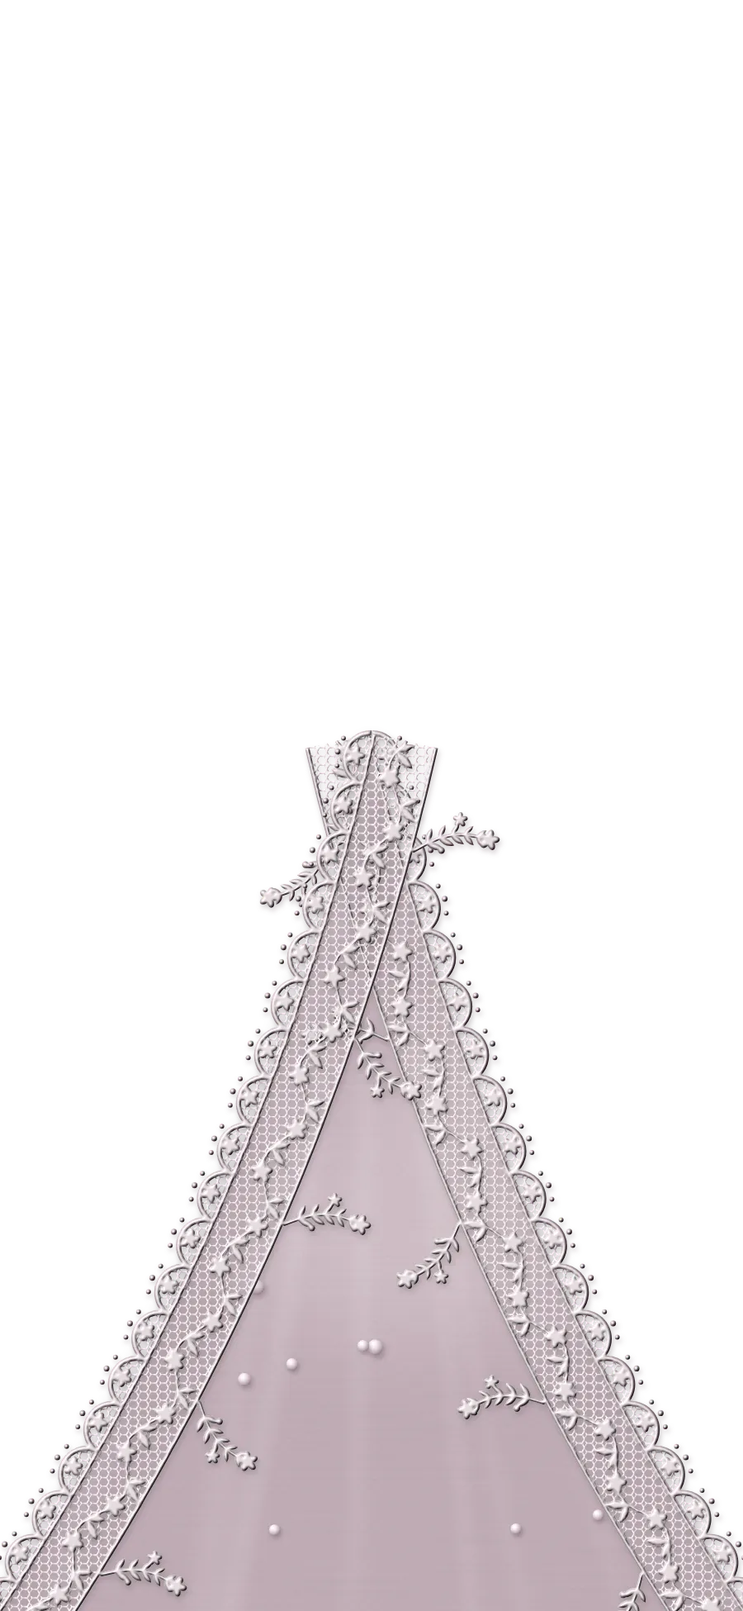
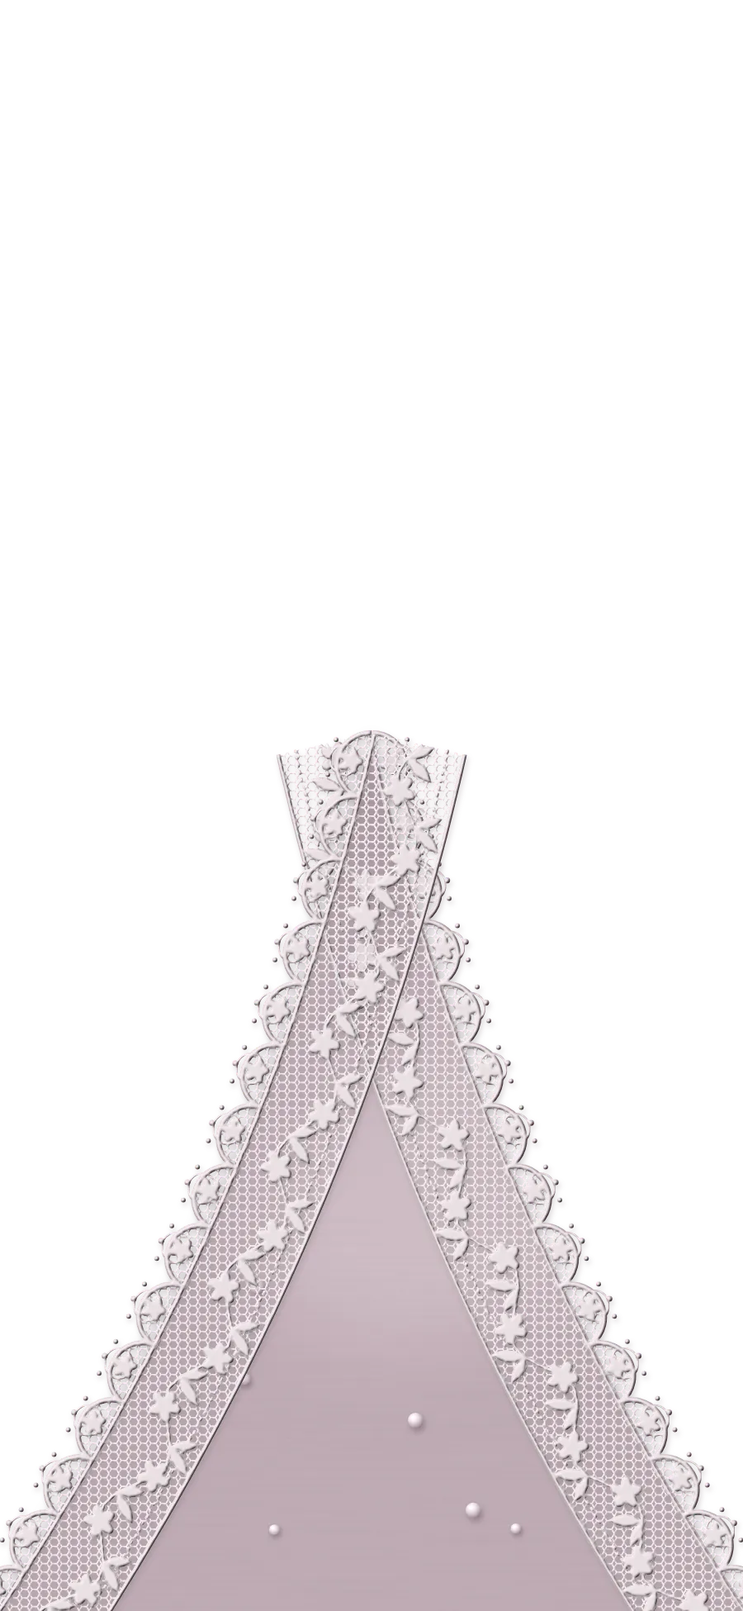
Softer envelope, RSVP to Google Sheet
Claude-Session: https://claude.ai/code/session_012TaZ8zuKBP6pkFoWipGzvm

Changed region(s): [[0.0, 0.4615, 1.0, 1.0], [0.6222, 0.9231, 0.6533, 0.9538], [0.4978, 0.8308, 0.5289, 0.8615]]

diff --git a/ne/janti/index.html b/ne/janti/index.html
@@ -173,7 +173,7 @@ body.rd #mute.on{display:flex}
   </div>
  </section>
 </div>
-<script>var C={"lang": "ne", "ev": [{"k": "j", "label": "विवाह", "date": "2026-11-25", "bs": "मंसिर ९, २०८३", "time": "", "venue": "", "map": "https://maps.app.goo.gl/B4FtiDtbxvyte3Ln6"}, {"k": "r", "label": "रिसेप्सन", "date": "2026-11-28", "bs": "मंसिर १२, २०८३", "time": "साँझ ५:०० बजेदेखि", "venue": "", "map": "https://www.google.com/maps/place/MFG6%2BV5X+Diyalo+Foodland+Kalikanagar,+Butwal,+Lumbini+Province+32907/@27.6771345,83.4606209,16z/data=!4m6!3m5!1s0x399687000e38b619:0xd6fbbf73869bbccb!8m2!3d27.6771345!4d83.4606209!16s%2Fg%2F11vqbf059t"}], "T": {"months": ["जनवरी", "फेब्रुअरी", "मार्च", "अप्रिल", "मे", "जुन", "जुलाई", "अगस्ट", "सेप्टेम्बर", "अक्टोबर", "नोभेम्बर", "डिसेम्बर"], "wd": ["आइतबार", "सोमबार", "मंगलबार", "बुधबार", "बिहीबार", "शुक्रबार", "शनिबार"], "units": ["दिन", "घण्टा", "मिनेट", "सेकेन्ड"], "viewloc": "स्थान हेर्नुहोस्", "sending": "WhatsApp खोल्दै…", "ok": "धन्यवाद! पूरा गर्न WhatsApp मा Send थिच्नुहोस्।", "err": "माफ गर्नुहोस्, पठाउन सकिएन। फेरि प्रयास गर्नुहोस् वा WhatsApp मा सन्देश पठाउनुहोस्।", "wamsg": "नमस्ते उज्ज्वल र ब्लेसी, म {n}।", "need": "कृपया हरेक कार्यक्रमका लागि छान्नुहोस्।", "dear": "आदरणीय", "yesw": "आउँछु", "now": "आउन सक्दिनँ", "gw": "जम्मा व्यक्ति", "rsvpw": "उपस्थिति"}, "wa": "9779813013735"};</script>
+<script>var C={"lang": "ne", "ev": [{"k": "j", "label": "विवाह", "date": "2026-11-25", "bs": "मंसिर ९, २०८३", "time": "", "venue": "", "map": "https://maps.app.goo.gl/B4FtiDtbxvyte3Ln6"}, {"k": "r", "label": "रिसेप्सन", "date": "2026-11-28", "bs": "मंसिर १२, २०८३", "time": "साँझ ५:०० बजेदेखि", "venue": "", "map": "https://www.google.com/maps/place/MFG6%2BV5X+Diyalo+Foodland+Kalikanagar,+Butwal,+Lumbini+Province+32907/@27.6771345,83.4606209,16z/data=!4m6!3m5!1s0x399687000e38b619:0xd6fbbf73869bbccb!8m2!3d27.6771345!4d83.4606209!16s%2Fg%2F11vqbf059t"}], "T": {"months": ["जनवरी", "फेब्रुअरी", "मार्च", "अप्रिल", "मे", "जुन", "जुलाई", "अगस्ट", "सेप्टेम्बर", "अक्टोबर", "नोभेम्बर", "डिसेम्बर"], "wd": ["आइतबार", "सोमबार", "मंगलबार", "बुधबार", "बिहीबार", "शुक्रबार", "शनिबार"], "units": ["दिन", "घण्टा", "मिनेट", "सेकेन्ड"], "viewloc": "स्थान हेर्नुहोस्", "sending": "WhatsApp खोल्दै…", "ok": "धन्यवाद! पूरा गर्न WhatsApp मा Send थिच्नुहोस्।", "err": "माफ गर्नुहोस्, पठाउन सकिएन। फेरि प्रयास गर्नुहोस् वा WhatsApp मा सन्देश पठाउनुहोस्।", "wamsg": "नमस्ते उज्ज्वल र ब्लेसी, म {n}।", "need": "कृपया हरेक कार्यक्रमका लागि छान्नुहोस्।", "dear": "आदरणीय", "yesw": "आउँछु", "now": "आउन सक्दिनँ", "gw": "जम्मा व्यक्ति", "rsvpw": "उपस्थिति", "sending2": "पठाउँदै…", "ok2": "धन्यवाद! तपाईंको जानकारी प्राप्त भयो।", "send2": "पठाउनुहोस्"}, "wa": "9779813013735"};</script>
 <script>
 (function(){
 var $=function(i){return document.getElementById(i)},T=C.T,NE=C.lang==='ne';
@@ -186,7 +186,7 @@ if(g){document.body.classList.add('named');$('tagn').textContent=g;$('dearn').te
 var CFGURL='https://raw.githubusercontent.com/uzalstha09/Wed/config/config.json',KEY={j:'wedding',r:'reception'};
 var BASE=JSON.parse(JSON.stringify(C.ev));
 function urlOv(){C.ev.forEach(function(e){var t=(q.get(e.k+'t')||'').trim().slice(0,40),v=(q.get(e.k+'v')||'').trim().slice(0,60),m=(q.get(e.k+'m')||'').trim();if(t)e.time=t;if(v)e.venue=v;if(/^https?:\/\//i.test(m)&&!/qLXXtzq6119MEdBVA|nJAhKrkYgUaogWYY9|Rose\+Party\+Palace|0x3996842b4da06a89/.test(m))e.map=m.slice(0,600)});}
-function applyCfg(cfg){C.ev=JSON.parse(JSON.stringify(BASE));if(cfg)C.ev.forEach(function(e){var c=cfg[KEY[e.k]];if(!c)return;var L=NE?'ne':'en';if(typeof c.map==='string'&&/^https?:\/\//i.test(c.map))e.map=c.map;if(typeof c['time_'+L]==='string')e.time=c['time_'+L];if(typeof c['venue_'+L]==='string')e.venue=c['venue_'+L]});urlOv()}
+var RS='';function applyCfg(cfg){C.ev=JSON.parse(JSON.stringify(BASE));if(cfg&&typeof cfg.rsvp_url==='string'&&/^https:\/\/script\.google(usercontent)?\.com\//.test(cfg.rsvp_url))RS=cfg.rsvp_url;if(cfg)C.ev.forEach(function(e){var c=cfg[KEY[e.k]];if(!c)return;var L=NE?'ne':'en';if(typeof c.map==='string'&&/^https?:\/\//i.test(c.map))e.map=c.map;if(typeof c['time_'+L]==='string')e.time=c['time_'+L];if(typeof c['venue_'+L]==='string')e.venue=c['venue_'+L]});urlOv()}
 function D(e){return new Date(e.date+'T00:00:00')}
 function fd(d){return dv(d.getDate())+' '+T.months[d.getMonth()]+' '+dv(d.getFullYear())}
 function render(){
@@ -195,8 +195,8 @@ $('evs').innerHTML=C.ev.map(function(e,i){var d=D(e),tv=[e.time,e.venue].filter(
 $('locs').innerHTML=C.ev.map(function(e,i){var d=D(e);return '<div class="lc rv" style="--d:'+(.3+i*.2)+'s"><div class="cap">'+esc(e.label)+'</div>'+(e.venue?'<div class="vn">'+esc(e.venue)+'</div>':'')+'<div class="dt">'+T.wd[d.getDay()]+', '+fd(d)+(e.time?' · '+esc(e.time):'')+'</div>'+(e.map?'<a class="btn" href="'+esc(cm(e.map))+'" rel="noopener"><svg width="12" height="15" viewBox="0 0 12 15" fill="none" stroke="currentColor" stroke-width="1.2"><path d="M6 14s5-4.6 5-8.2A5 5 0 0 0 1 5.8C1 9.4 6 14 6 14z"/><circle cx="6" cy="6" r="1.8"/></svg>'+esc(T.viewloc)+'</a>':'')+'</div>'}).join('');
 }
 applyCfg(null);render();
-try{var cc=localStorage.getItem('wcfg');if(cc){applyCfg(JSON.parse(cc));render()}}catch(e){}
-try{fetch(CFGURL+'?t='+Math.floor(Date.now()/60000),{cache:'no-store'}).then(function(r){return r.ok?r.json():null}).then(function(cfg){if(!cfg)return;try{localStorage.setItem('wcfg',JSON.stringify(cfg))}catch(e){}applyCfg(cfg);render();var s=document.querySelectorAll('.sec.in');}).catch(function(){})}catch(e){}
+try{var cc=localStorage.getItem('wcfg');if(cc){applyCfg(JSON.parse(cc));render();if(RS){var sb0=document.querySelector('#rf .send');if(sb0)sb0.textContent=T.send2}}}catch(e){}
+try{fetch(CFGURL+'?t='+Math.floor(Date.now()/60000),{cache:'no-store'}).then(function(r){return r.ok?r.json():null}).then(function(cfg){if(!cfg)return;try{localStorage.setItem('wcfg',JSON.stringify(cfg))}catch(e){}applyCfg(cfg);render();if(RS){var sb=document.querySelector('#rf .send');if(sb)sb.textContent=T.send2}}).catch(function(){})}catch(e){}
 var tgt=D(C.ev[0]);$('cdl').textContent=C.ev[0].label;$('cdt').textContent=T.wd[tgt.getDay()]+', '+fd(tgt);
 $('cd').innerHTML=T.units.map(function(u){return '<div><b>00</b><span>'+esc(u)+'</span></div>'}).join('');
 var cb=$('cd').querySelectorAll('b');
@@ -208,6 +208,9 @@ $('rf').addEventListener('submit',function(ev){ev.preventDefault();var f=this,b=
  for(var i=0;i<C.ev.length;i++){if(!f.querySelector('input[name="attend-'+C.ev[i].k+'"]:checked')){m.textContent=T.need;return}}
  var n=($('rn').value||'').trim();if(!n){$('rn').focus();return}
  var lines=[T.rsvpw+' — '+n];C.ev.forEach(function(e){var v=f.querySelector('input[name="attend-'+e.k+'"]:checked').value;lines.push(e.label+': '+(v==='yes'?T.yesw:T.now))});lines.push(T.gw+': '+dv($('rg').value));
+ if(RS){var body=new URLSearchParams();body.append('name',n);C.ev.forEach(function(e){body.append('attend-'+e.k,f.querySelector('input[name="attend-'+e.k+'"]:checked').value)});body.append('guests',$('rg').value);body.append('page',location.pathname);body.append('lang',C.lang);if(g)body.append('link-name',g);
+  b.disabled=true;var old=b.textContent;b.textContent=T.sending2;m.textContent='';
+  fetch(RS,{method:'POST',mode:'no-cors',headers:{'Content-Type':'application/x-www-form-urlencoded'},body:body.toString()}).then(function(){m.textContent=T.ok2;f.querySelectorAll('input,select,button').forEach(function(x){x.disabled=true});b.textContent='✓'}).catch(function(){m.textContent=T.err;b.disabled=false;b.textContent=old});return}
  m.textContent=T.ok;location.href='https://wa.me/'+C.wa+'?text='+encodeURIComponent(lines.join('\n'))});
 /* reveal */
 var secs=document.querySelectorAll('.sec');

diff --git a/ne/reception/index.html b/ne/reception/index.html
@@ -173,7 +173,7 @@ body.rd #mute.on{display:flex}
   </div>
  </section>
 </div>
-<script>var C={"lang": "ne", "ev": [{"k": "r", "label": "रिसेप्सन", "date": "2026-11-28", "bs": "मंसिर १२, २०८३", "time": "साँझ ५:०० बजेदेखि", "venue": "", "map": "https://www.google.com/maps/place/MFG6%2BV5X+Diyalo+Foodland+Kalikanagar,+Butwal,+Lumbini+Province+32907/@27.6771345,83.4606209,16z/data=!4m6!3m5!1s0x399687000e38b619:0xd6fbbf73869bbccb!8m2!3d27.6771345!4d83.4606209!16s%2Fg%2F11vqbf059t"}], "T": {"months": ["जनवरी", "फेब्रुअरी", "मार्च", "अप्रिल", "मे", "जुन", "जुलाई", "अगस्ट", "सेप्टेम्बर", "अक्टोबर", "नोभेम्बर", "डिसेम्बर"], "wd": ["आइतबार", "सोमबार", "मंगलबार", "बुधबार", "बिहीबार", "शुक्रबार", "शनिबार"], "units": ["दिन", "घण्टा", "मिनेट", "सेकेन्ड"], "viewloc": "स्थान हेर्नुहोस्", "sending": "WhatsApp खोल्दै…", "ok": "धन्यवाद! पूरा गर्न WhatsApp मा Send थिच्नुहोस्।", "err": "माफ गर्नुहोस्, पठाउन सकिएन। फेरि प्रयास गर्नुहोस् वा WhatsApp मा सन्देश पठाउनुहोस्।", "wamsg": "नमस्ते उज्ज्वल र ब्लेसी, म {n}।", "need": "कृपया हरेक कार्यक्रमका लागि छान्नुहोस्।", "dear": "आदरणीय", "yesw": "आउँछु", "now": "आउन सक्दिनँ", "gw": "जम्मा व्यक्ति", "rsvpw": "उपस्थिति"}, "wa": "9779813013735"};</script>
+<script>var C={"lang": "ne", "ev": [{"k": "r", "label": "रिसेप्सन", "date": "2026-11-28", "bs": "मंसिर १२, २०८३", "time": "साँझ ५:०० बजेदेखि", "venue": "", "map": "https://www.google.com/maps/place/MFG6%2BV5X+Diyalo+Foodland+Kalikanagar,+Butwal,+Lumbini+Province+32907/@27.6771345,83.4606209,16z/data=!4m6!3m5!1s0x399687000e38b619:0xd6fbbf73869bbccb!8m2!3d27.6771345!4d83.4606209!16s%2Fg%2F11vqbf059t"}], "T": {"months": ["जनवरी", "फेब्रुअरी", "मार्च", "अप्रिल", "मे", "जुन", "जुलाई", "अगस्ट", "सेप्टेम्बर", "अक्टोबर", "नोभेम्बर", "डिसेम्बर"], "wd": ["आइतबार", "सोमबार", "मंगलबार", "बुधबार", "बिहीबार", "शुक्रबार", "शनिबार"], "units": ["दिन", "घण्टा", "मिनेट", "सेकेन्ड"], "viewloc": "स्थान हेर्नुहोस्", "sending": "WhatsApp खोल्दै…", "ok": "धन्यवाद! पूरा गर्न WhatsApp मा Send थिच्नुहोस्।", "err": "माफ गर्नुहोस्, पठाउन सकिएन। फेरि प्रयास गर्नुहोस् वा WhatsApp मा सन्देश पठाउनुहोस्।", "wamsg": "नमस्ते उज्ज्वल र ब्लेसी, म {n}।", "need": "कृपया हरेक कार्यक्रमका लागि छान्नुहोस्।", "dear": "आदरणीय", "yesw": "आउँछु", "now": "आउन सक्दिनँ", "gw": "जम्मा व्यक्ति", "rsvpw": "उपस्थिति", "sending2": "पठाउँदै…", "ok2": "धन्यवाद! तपाईंको जानकारी प्राप्त भयो।", "send2": "पठाउनुहोस्"}, "wa": "9779813013735"};</script>
 <script>
 (function(){
 var $=function(i){return document.getElementById(i)},T=C.T,NE=C.lang==='ne';
@@ -186,7 +186,7 @@ if(g){document.body.classList.add('named');$('tagn').textContent=g;$('dearn').te
 var CFGURL='https://raw.githubusercontent.com/uzalstha09/Wed/config/config.json',KEY={j:'wedding',r:'reception'};
 var BASE=JSON.parse(JSON.stringify(C.ev));
 function urlOv(){C.ev.forEach(function(e){var t=(q.get(e.k+'t')||'').trim().slice(0,40),v=(q.get(e.k+'v')||'').trim().slice(0,60),m=(q.get(e.k+'m')||'').trim();if(t)e.time=t;if(v)e.venue=v;if(/^https?:\/\//i.test(m)&&!/qLXXtzq6119MEdBVA|nJAhKrkYgUaogWYY9|Rose\+Party\+Palace|0x3996842b4da06a89/.test(m))e.map=m.slice(0,600)});}
-function applyCfg(cfg){C.ev=JSON.parse(JSON.stringify(BASE));if(cfg)C.ev.forEach(function(e){var c=cfg[KEY[e.k]];if(!c)return;var L=NE?'ne':'en';if(typeof c.map==='string'&&/^https?:\/\//i.test(c.map))e.map=c.map;if(typeof c['time_'+L]==='string')e.time=c['time_'+L];if(typeof c['venue_'+L]==='string')e.venue=c['venue_'+L]});urlOv()}
+var RS='';function applyCfg(cfg){C.ev=JSON.parse(JSON.stringify(BASE));if(cfg&&typeof cfg.rsvp_url==='string'&&/^https:\/\/script\.google(usercontent)?\.com\//.test(cfg.rsvp_url))RS=cfg.rsvp_url;if(cfg)C.ev.forEach(function(e){var c=cfg[KEY[e.k]];if(!c)return;var L=NE?'ne':'en';if(typeof c.map==='string'&&/^https?:\/\//i.test(c.map))e.map=c.map;if(typeof c['time_'+L]==='string')e.time=c['time_'+L];if(typeof c['venue_'+L]==='string')e.venue=c['venue_'+L]});urlOv()}
 function D(e){return new Date(e.date+'T00:00:00')}
 function fd(d){return dv(d.getDate())+' '+T.months[d.getMonth()]+' '+dv(d.getFullYear())}
 function render(){
@@ -195,8 +195,8 @@ $('evs').innerHTML=C.ev.map(function(e,i){var d=D(e),tv=[e.time,e.venue].filter(
 $('locs').innerHTML=C.ev.map(function(e,i){var d=D(e);return '<div class="lc rv" style="--d:'+(.3+i*.2)+'s"><div class="cap">'+esc(e.label)+'</div>'+(e.venue?'<div class="vn">'+esc(e.venue)+'</div>':'')+'<div class="dt">'+T.wd[d.getDay()]+', '+fd(d)+(e.time?' · '+esc(e.time):'')+'</div>'+(e.map?'<a class="btn" href="'+esc(cm(e.map))+'" rel="noopener"><svg width="12" height="15" viewBox="0 0 12 15" fill="none" stroke="currentColor" stroke-width="1.2"><path d="M6 14s5-4.6 5-8.2A5 5 0 0 0 1 5.8C1 9.4 6 14 6 14z"/><circle cx="6" cy="6" r="1.8"/></svg>'+esc(T.viewloc)+'</a>':'')+'</div>'}).join('');
 }
 applyCfg(null);render();
-try{var cc=localStorage.getItem('wcfg');if(cc){applyCfg(JSON.parse(cc));render()}}catch(e){}
-try{fetch(CFGURL+'?t='+Math.floor(Date.now()/60000),{cache:'no-store'}).then(function(r){return r.ok?r.json():null}).then(function(cfg){if(!cfg)return;try{localStorage.setItem('wcfg',JSON.stringify(cfg))}catch(e){}applyCfg(cfg);render();var s=document.querySelectorAll('.sec.in');}).catch(function(){})}catch(e){}
+try{var cc=localStorage.getItem('wcfg');if(cc){applyCfg(JSON.parse(cc));render();if(RS){var sb0=document.querySelector('#rf .send');if(sb0)sb0.textContent=T.send2}}}catch(e){}
+try{fetch(CFGURL+'?t='+Math.floor(Date.now()/60000),{cache:'no-store'}).then(function(r){return r.ok?r.json():null}).then(function(cfg){if(!cfg)return;try{localStorage.setItem('wcfg',JSON.stringify(cfg))}catch(e){}applyCfg(cfg);render();if(RS){var sb=document.querySelector('#rf .send');if(sb)sb.textContent=T.send2}}).catch(function(){})}catch(e){}
 var tgt=D(C.ev[0]);$('cdl').textContent=C.ev[0].label;$('cdt').textContent=T.wd[tgt.getDay()]+', '+fd(tgt);
 $('cd').innerHTML=T.units.map(function(u){return '<div><b>00</b><span>'+esc(u)+'</span></div>'}).join('');
 var cb=$('cd').querySelectorAll('b');
@@ -208,6 +208,9 @@ $('rf').addEventListener('submit',function(ev){ev.preventDefault();var f=this,b=
  for(var i=0;i<C.ev.length;i++){if(!f.querySelector('input[name="attend-'+C.ev[i].k+'"]:checked')){m.textContent=T.need;return}}
  var n=($('rn').value||'').trim();if(!n){$('rn').focus();return}
  var lines=[T.rsvpw+' — '+n];C.ev.forEach(function(e){var v=f.querySelector('input[name="attend-'+e.k+'"]:checked').value;lines.push(e.label+': '+(v==='yes'?T.yesw:T.now))});lines.push(T.gw+': '+dv($('rg').value));
+ if(RS){var body=new URLSearchParams();body.append('name',n);C.ev.forEach(function(e){body.append('attend-'+e.k,f.querySelector('input[name="attend-'+e.k+'"]:checked').value)});body.append('guests',$('rg').value);body.append('page',location.pathname);body.append('lang',C.lang);if(g)body.append('link-name',g);
+  b.disabled=true;var old=b.textContent;b.textContent=T.sending2;m.textContent='';
+  fetch(RS,{method:'POST',mode:'no-cors',headers:{'Content-Type':'application/x-www-form-urlencoded'},body:body.toString()}).then(function(){m.textContent=T.ok2;f.querySelectorAll('input,select,button').forEach(function(x){x.disabled=true});b.textContent='✓'}).catch(function(){m.textContent=T.err;b.disabled=false;b.textContent=old});return}
  m.textContent=T.ok;location.href='https://wa.me/'+C.wa+'?text='+encodeURIComponent(lines.join('\n'))});
 /* reveal */
 var secs=document.querySelectorAll('.sec');

diff --git a/ne/wedding/index.html b/ne/wedding/index.html
@@ -173,7 +173,7 @@ body.rd #mute.on{display:flex}
   </div>
  </section>
 </div>
-<script>var C={"lang": "ne", "ev": [{"k": "j", "label": "विवाह", "date": "2026-11-25", "bs": "मंसिर ९, २०८३", "time": "", "venue": "", "map": "https://maps.app.goo.gl/B4FtiDtbxvyte3Ln6"}], "T": {"months": ["जनवरी", "फेब्रुअरी", "मार्च", "अप्रिल", "मे", "जुन", "जुलाई", "अगस्ट", "सेप्टेम्बर", "अक्टोबर", "नोभेम्बर", "डिसेम्बर"], "wd": ["आइतबार", "सोमबार", "मंगलबार", "बुधबार", "बिहीबार", "शुक्रबार", "शनिबार"], "units": ["दिन", "घण्टा", "मिनेट", "सेकेन्ड"], "viewloc": "स्थान हेर्नुहोस्", "sending": "WhatsApp खोल्दै…", "ok": "धन्यवाद! पूरा गर्न WhatsApp मा Send थिच्नुहोस्।", "err": "माफ गर्नुहोस्, पठाउन सकिएन। फेरि प्रयास गर्नुहोस् वा WhatsApp मा सन्देश पठाउनुहोस्।", "wamsg": "नमस्ते उज्ज्वल र ब्लेसी, म {n}।", "need": "कृपया हरेक कार्यक्रमका लागि छान्नुहोस्।", "dear": "आदरणीय", "yesw": "आउँछु", "now": "आउन सक्दिनँ", "gw": "जम्मा व्यक्ति", "rsvpw": "उपस्थिति"}, "wa": "9779813013735"};</script>
+<script>var C={"lang": "ne", "ev": [{"k": "j", "label": "विवाह", "date": "2026-11-25", "bs": "मंसिर ९, २०८३", "time": "", "venue": "", "map": "https://maps.app.goo.gl/B4FtiDtbxvyte3Ln6"}], "T": {"months": ["जनवरी", "फेब्रुअरी", "मार्च", "अप्रिल", "मे", "जुन", "जुलाई", "अगस्ट", "सेप्टेम्बर", "अक्टोबर", "नोभेम्बर", "डिसेम्बर"], "wd": ["आइतबार", "सोमबार", "मंगलबार", "बुधबार", "बिहीबार", "शुक्रबार", "शनिबार"], "units": ["दिन", "घण्टा", "मिनेट", "सेकेन्ड"], "viewloc": "स्थान हेर्नुहोस्", "sending": "WhatsApp खोल्दै…", "ok": "धन्यवाद! पूरा गर्न WhatsApp मा Send थिच्नुहोस्।", "err": "माफ गर्नुहोस्, पठाउन सकिएन। फेरि प्रयास गर्नुहोस् वा WhatsApp मा सन्देश पठाउनुहोस्।", "wamsg": "नमस्ते उज्ज्वल र ब्लेसी, म {n}।", "need": "कृपया हरेक कार्यक्रमका लागि छान्नुहोस्।", "dear": "आदरणीय", "yesw": "आउँछु", "now": "आउन सक्दिनँ", "gw": "जम्मा व्यक्ति", "rsvpw": "उपस्थिति", "sending2": "पठाउँदै…", "ok2": "धन्यवाद! तपाईंको जानकारी प्राप्त भयो।", "send2": "पठाउनुहोस्"}, "wa": "9779813013735"};</script>
 <script>
 (function(){
 var $=function(i){return document.getElementById(i)},T=C.T,NE=C.lang==='ne';
@@ -186,7 +186,7 @@ if(g){document.body.classList.add('named');$('tagn').textContent=g;$('dearn').te
 var CFGURL='https://raw.githubusercontent.com/uzalstha09/Wed/config/config.json',KEY={j:'wedding',r:'reception'};
 var BASE=JSON.parse(JSON.stringify(C.ev));
 function urlOv(){C.ev.forEach(function(e){var t=(q.get(e.k+'t')||'').trim().slice(0,40),v=(q.get(e.k+'v')||'').trim().slice(0,60),m=(q.get(e.k+'m')||'').trim();if(t)e.time=t;if(v)e.venue=v;if(/^https?:\/\//i.test(m)&&!/qLXXtzq6119MEdBVA|nJAhKrkYgUaogWYY9|Rose\+Party\+Palace|0x3996842b4da06a89/.test(m))e.map=m.slice(0,600)});}
-function applyCfg(cfg){C.ev=JSON.parse(JSON.stringify(BASE));if(cfg)C.ev.forEach(function(e){var c=cfg[KEY[e.k]];if(!c)return;var L=NE?'ne':'en';if(typeof c.map==='string'&&/^https?:\/\//i.test(c.map))e.map=c.map;if(typeof c['time_'+L]==='string')e.time=c['time_'+L];if(typeof c['venue_'+L]==='string')e.venue=c['venue_'+L]});urlOv()}
+var RS='';function applyCfg(cfg){C.ev=JSON.parse(JSON.stringify(BASE));if(cfg&&typeof cfg.rsvp_url==='string'&&/^https:\/\/script\.google(usercontent)?\.com\//.test(cfg.rsvp_url))RS=cfg.rsvp_url;if(cfg)C.ev.forEach(function(e){var c=cfg[KEY[e.k]];if(!c)return;var L=NE?'ne':'en';if(typeof c.map==='string'&&/^https?:\/\//i.test(c.map))e.map=c.map;if(typeof c['time_'+L]==='string')e.time=c['time_'+L];if(typeof c['venue_'+L]==='string')e.venue=c['venue_'+L]});urlOv()}
 function D(e){return new Date(e.date+'T00:00:00')}
 function fd(d){return dv(d.getDate())+' '+T.months[d.getMonth()]+' '+dv(d.getFullYear())}
 function render(){
@@ -195,8 +195,8 @@ $('evs').innerHTML=C.ev.map(function(e,i){var d=D(e),tv=[e.time,e.venue].filter(
 $('locs').innerHTML=C.ev.map(function(e,i){var d=D(e);return '<div class="lc rv" style="--d:'+(.3+i*.2)+'s"><div class="cap">'+esc(e.label)+'</div>'+(e.venue?'<div class="vn">'+esc(e.venue)+'</div>':'')+'<div class="dt">'+T.wd[d.getDay()]+', '+fd(d)+(e.time?' · '+esc(e.time):'')+'</div>'+(e.map?'<a class="btn" href="'+esc(cm(e.map))+'" rel="noopener"><svg width="12" height="15" viewBox="0 0 12 15" fill="none" stroke="currentColor" stroke-width="1.2"><path d="M6 14s5-4.6 5-8.2A5 5 0 0 0 1 5.8C1 9.4 6 14 6 14z"/><circle cx="6" cy="6" r="1.8"/></svg>'+esc(T.viewloc)+'</a>':'')+'</div>'}).join('');
 }
 applyCfg(null);render();
-try{var cc=localStorage.getItem('wcfg');if(cc){applyCfg(JSON.parse(cc));render()}}catch(e){}
-try{fetch(CFGURL+'?t='+Math.floor(Date.now()/60000),{cache:'no-store'}).then(function(r){return r.ok?r.json():null}).then(function(cfg){if(!cfg)return;try{localStorage.setItem('wcfg',JSON.stringify(cfg))}catch(e){}applyCfg(cfg);render();var s=document.querySelectorAll('.sec.in');}).catch(function(){})}catch(e){}
+try{var cc=localStorage.getItem('wcfg');if(cc){applyCfg(JSON.parse(cc));render();if(RS){var sb0=document.querySelector('#rf .send');if(sb0)sb0.textContent=T.send2}}}catch(e){}
+try{fetch(CFGURL+'?t='+Math.floor(Date.now()/60000),{cache:'no-store'}).then(function(r){return r.ok?r.json():null}).then(function(cfg){if(!cfg)return;try{localStorage.setItem('wcfg',JSON.stringify(cfg))}catch(e){}applyCfg(cfg);render();if(RS){var sb=document.querySelector('#rf .send');if(sb)sb.textContent=T.send2}}).catch(function(){})}catch(e){}
 var tgt=D(C.ev[0]);$('cdl').textContent=C.ev[0].label;$('cdt').textContent=T.wd[tgt.getDay()]+', '+fd(tgt);
 $('cd').innerHTML=T.units.map(function(u){return '<div><b>00</b><span>'+esc(u)+'</span></div>'}).join('');
 var cb=$('cd').querySelectorAll('b');
@@ -208,6 +208,9 @@ $('rf').addEventListener('submit',function(ev){ev.preventDefault();var f=this,b=
  for(var i=0;i<C.ev.length;i++){if(!f.querySelector('input[name="attend-'+C.ev[i].k+'"]:checked')){m.textContent=T.need;return}}
  var n=($('rn').value||'').trim();if(!n){$('rn').focus();return}
  var lines=[T.rsvpw+' — '+n];C.ev.forEach(function(e){var v=f.querySelector('input[name="attend-'+e.k+'"]:checked').value;lines.push(e.label+': '+(v==='yes'?T.yesw:T.now))});lines.push(T.gw+': '+dv($('rg').value));
+ if(RS){var body=new URLSearchParams();body.append('name',n);C.ev.forEach(function(e){body.append('attend-'+e.k,f.querySelector('input[name="attend-'+e.k+'"]:checked').value)});body.append('guests',$('rg').value);body.append('page',location.pathname);body.append('lang',C.lang);if(g)body.append('link-name',g);
+  b.disabled=true;var old=b.textContent;b.textContent=T.sending2;m.textContent='';
+  fetch(RS,{method:'POST',mode:'no-cors',headers:{'Content-Type':'application/x-www-form-urlencoded'},body:body.toString()}).then(function(){m.textContent=T.ok2;f.querySelectorAll('input,select,button').forEach(function(x){x.disabled=true});b.textContent='✓'}).catch(function(){m.textContent=T.err;b.disabled=false;b.textContent=old});return}
  m.textContent=T.ok;location.href='https://wa.me/'+C.wa+'?text='+encodeURIComponent(lines.join('\n'))});
 /* reveal */
 var secs=document.querySelectorAll('.sec');

diff --git a/janti/index.html b/janti/index.html
@@ -173,7 +173,7 @@ body.rd #mute.on{display:flex}
   </div>
  </section>
 </div>
-<script>var C={"lang": "en", "ev": [{"k": "j", "label": "Wedding", "date": "2026-11-25", "bs": "Mangsir 9, 2083", "time": "", "venue": "", "map": "https://maps.app.goo.gl/B4FtiDtbxvyte3Ln6"}, {"k": "r", "label": "Reception", "date": "2026-11-28", "bs": "Mangsir 12, 2083", "time": "5:00 PM onwards", "venue": "", "map": "https://www.google.com/maps/place/MFG6%2BV5X+Diyalo+Foodland+Kalikanagar,+Butwal,+Lumbini+Province+32907/@27.6771345,83.4606209,16z/data=!4m6!3m5!1s0x399687000e38b619:0xd6fbbf73869bbccb!8m2!3d27.6771345!4d83.4606209!16s%2Fg%2F11vqbf059t"}], "T": {"months": ["January", "February", "March", "April", "May", "June", "July", "August", "September", "October", "November", "December"], "wd": ["Sunday", "Monday", "Tuesday", "Wednesday", "Thursday", "Friday", "Saturday"], "units": ["Days", "Hours", "Mins", "Secs"], "viewloc": "View Location", "sending": "Opening WhatsApp…", "ok": "Thank you! Please tap Send in WhatsApp to finish.", "err": "Sorry, it could not be sent. Please try again or message us on WhatsApp.", "wamsg": "Hello Ujjwal & Blesy, this is {n}.", "need": "Please choose for each event.", "dear": "Dear", "yesw": "Yes", "now": "No", "gw": "Guests", "rsvpw": "RSVP"}, "wa": "9779813013735"};</script>
+<script>var C={"lang": "en", "ev": [{"k": "j", "label": "Wedding", "date": "2026-11-25", "bs": "Mangsir 9, 2083", "time": "", "venue": "", "map": "https://maps.app.goo.gl/B4FtiDtbxvyte3Ln6"}, {"k": "r", "label": "Reception", "date": "2026-11-28", "bs": "Mangsir 12, 2083", "time": "5:00 PM onwards", "venue": "", "map": "https://www.google.com/maps/place/MFG6%2BV5X+Diyalo+Foodland+Kalikanagar,+Butwal,+Lumbini+Province+32907/@27.6771345,83.4606209,16z/data=!4m6!3m5!1s0x399687000e38b619:0xd6fbbf73869bbccb!8m2!3d27.6771345!4d83.4606209!16s%2Fg%2F11vqbf059t"}], "T": {"months": ["January", "February", "March", "April", "May", "June", "July", "August", "September", "October", "November", "December"], "wd": ["Sunday", "Monday", "Tuesday", "Wednesday", "Thursday", "Friday", "Saturday"], "units": ["Days", "Hours", "Mins", "Secs"], "viewloc": "View Location", "sending": "Opening WhatsApp…", "ok": "Thank you! Please tap Send in WhatsApp to finish.", "err": "Sorry, it could not be sent. Please try again or message us on WhatsApp.", "wamsg": "Hello Ujjwal & Blesy, this is {n}.", "need": "Please choose for each event.", "dear": "Dear", "yesw": "Yes", "now": "No", "gw": "Guests", "rsvpw": "RSVP", "sending2": "Sending…", "ok2": "Thank you! Your RSVP has been received.", "send2": "Send RSVP"}, "wa": "9779813013735"};</script>
 <script>
 (function(){
 var $=function(i){return document.getElementById(i)},T=C.T,NE=C.lang==='ne';
@@ -186,7 +186,7 @@ if(g){document.body.classList.add('named');$('tagn').textContent=g;$('dearn').te
 var CFGURL='https://raw.githubusercontent.com/uzalstha09/Wed/config/config.json',KEY={j:'wedding',r:'reception'};
 var BASE=JSON.parse(JSON.stringify(C.ev));
 function urlOv(){C.ev.forEach(function(e){var t=(q.get(e.k+'t')||'').trim().slice(0,40),v=(q.get(e.k+'v')||'').trim().slice(0,60),m=(q.get(e.k+'m')||'').trim();if(t)e.time=t;if(v)e.venue=v;if(/^https?:\/\//i.test(m)&&!/qLXXtzq6119MEdBVA|nJAhKrkYgUaogWYY9|Rose\+Party\+Palace|0x3996842b4da06a89/.test(m))e.map=m.slice(0,600)});}
-function applyCfg(cfg){C.ev=JSON.parse(JSON.stringify(BASE));if(cfg)C.ev.forEach(function(e){var c=cfg[KEY[e.k]];if(!c)return;var L=NE?'ne':'en';if(typeof c.map==='string'&&/^https?:\/\//i.test(c.map))e.map=c.map;if(typeof c['time_'+L]==='string')e.time=c['time_'+L];if(typeof c['venue_'+L]==='string')e.venue=c['venue_'+L]});urlOv()}
+var RS='';function applyCfg(cfg){C.ev=JSON.parse(JSON.stringify(BASE));if(cfg&&typeof cfg.rsvp_url==='string'&&/^https:\/\/script\.google(usercontent)?\.com\//.test(cfg.rsvp_url))RS=cfg.rsvp_url;if(cfg)C.ev.forEach(function(e){var c=cfg[KEY[e.k]];if(!c)return;var L=NE?'ne':'en';if(typeof c.map==='string'&&/^https?:\/\//i.test(c.map))e.map=c.map;if(typeof c['time_'+L]==='string')e.time=c['time_'+L];if(typeof c['venue_'+L]==='string')e.venue=c['venue_'+L]});urlOv()}
 function D(e){return new Date(e.date+'T00:00:00')}
 function fd(d){return dv(d.getDate())+' '+T.months[d.getMonth()]+' '+dv(d.getFullYear())}
 function render(){
@@ -195,8 +195,8 @@ $('evs').innerHTML=C.ev.map(function(e,i){var d=D(e),tv=[e.time,e.venue].filter(
 $('locs').innerHTML=C.ev.map(function(e,i){var d=D(e);return '<div class="lc rv" style="--d:'+(.3+i*.2)+'s"><div class="cap">'+esc(e.label)+'</div>'+(e.venue?'<div class="vn">'+esc(e.venue)+'</div>':'')+'<div class="dt">'+T.wd[d.getDay()]+', '+fd(d)+(e.time?' · '+esc(e.time):'')+'</div>'+(e.map?'<a class="btn" href="'+esc(cm(e.map))+'" rel="noopener"><svg width="12" height="15" viewBox="0 0 12 15" fill="none" stroke="currentColor" stroke-width="1.2"><path d="M6 14s5-4.6 5-8.2A5 5 0 0 0 1 5.8C1 9.4 6 14 6 14z"/><circle cx="6" cy="6" r="1.8"/></svg>'+esc(T.viewloc)+'</a>':'')+'</div>'}).join('');
 }
 applyCfg(null);render();
-try{var cc=localStorage.getItem('wcfg');if(cc){applyCfg(JSON.parse(cc));render()}}catch(e){}
-try{fetch(CFGURL+'?t='+Math.floor(Date.now()/60000),{cache:'no-store'}).then(function(r){return r.ok?r.json():null}).then(function(cfg){if(!cfg)return;try{localStorage.setItem('wcfg',JSON.stringify(cfg))}catch(e){}applyCfg(cfg);render();var s=document.querySelectorAll('.sec.in');}).catch(function(){})}catch(e){}
+try{var cc=localStorage.getItem('wcfg');if(cc){applyCfg(JSON.parse(cc));render();if(RS){var sb0=document.querySelector('#rf .send');if(sb0)sb0.textContent=T.send2}}}catch(e){}
+try{fetch(CFGURL+'?t='+Math.floor(Date.now()/60000),{cache:'no-store'}).then(function(r){return r.ok?r.json():null}).then(function(cfg){if(!cfg)return;try{localStorage.setItem('wcfg',JSON.stringify(cfg))}catch(e){}applyCfg(cfg);render();if(RS){var sb=document.querySelector('#rf .send');if(sb)sb.textContent=T.send2}}).catch(function(){})}catch(e){}
 var tgt=D(C.ev[0]);$('cdl').textContent=C.ev[0].label;$('cdt').textContent=T.wd[tgt.getDay()]+', '+fd(tgt);
 $('cd').innerHTML=T.units.map(function(u){return '<div><b>00</b><span>'+esc(u)+'</span></div>'}).join('');
 var cb=$('cd').querySelectorAll('b');
@@ -208,6 +208,9 @@ $('rf').addEventListener('submit',function(ev){ev.preventDefault();var f=this,b=
  for(var i=0;i<C.ev.length;i++){if(!f.querySelector('input[name="attend-'+C.ev[i].k+'"]:checked')){m.textContent=T.need;return}}
  var n=($('rn').value||'').trim();if(!n){$('rn').focus();return}
  var lines=[T.rsvpw+' — '+n];C.ev.forEach(function(e){var v=f.querySelector('input[name="attend-'+e.k+'"]:checked').value;lines.push(e.label+': '+(v==='yes'?T.yesw:T.now))});lines.push(T.gw+': '+dv($('rg').value));
+ if(RS){var body=new URLSearchParams();body.append('name',n);C.ev.forEach(function(e){body.append('attend-'+e.k,f.querySelector('input[name="attend-'+e.k+'"]:checked').value)});body.append('guests',$('rg').value);body.append('page',location.pathname);body.append('lang',C.lang);if(g)body.append('link-name',g);
+  b.disabled=true;var old=b.textContent;b.textContent=T.sending2;m.textContent='';
+  fetch(RS,{method:'POST',mode:'no-cors',headers:{'Content-Type':'application/x-www-form-urlencoded'},body:body.toString()}).then(function(){m.textContent=T.ok2;f.querySelectorAll('input,select,button').forEach(function(x){x.disabled=true});b.textContent='✓'}).catch(function(){m.textContent=T.err;b.disabled=false;b.textContent=old});return}
  m.textContent=T.ok;location.href='https://wa.me/'+C.wa+'?text='+encodeURIComponent(lines.join('\n'))});
 /* reveal */
 var secs=document.querySelectorAll('.sec');

diff --git a/reception/index.html b/reception/index.html
@@ -173,7 +173,7 @@ body.rd #mute.on{display:flex}
   </div>
  </section>
 </div>
-<script>var C={"lang": "en", "ev": [{"k": "r", "label": "Reception", "date": "2026-11-28", "bs": "Mangsir 12, 2083", "time": "5:00 PM onwards", "venue": "", "map": "https://www.google.com/maps/place/MFG6%2BV5X+Diyalo+Foodland+Kalikanagar,+Butwal,+Lumbini+Province+32907/@27.6771345,83.4606209,16z/data=!4m6!3m5!1s0x399687000e38b619:0xd6fbbf73869bbccb!8m2!3d27.6771345!4d83.4606209!16s%2Fg%2F11vqbf059t"}], "T": {"months": ["January", "February", "March", "April", "May", "June", "July", "August", "September", "October", "November", "December"], "wd": ["Sunday", "Monday", "Tuesday", "Wednesday", "Thursday", "Friday", "Saturday"], "units": ["Days", "Hours", "Mins", "Secs"], "viewloc": "View Location", "sending": "Opening WhatsApp…", "ok": "Thank you! Please tap Send in WhatsApp to finish.", "err": "Sorry, it could not be sent. Please try again or message us on WhatsApp.", "wamsg": "Hello Ujjwal & Blesy, this is {n}.", "need": "Please choose for each event.", "dear": "Dear", "yesw": "Yes", "now": "No", "gw": "Guests", "rsvpw": "RSVP"}, "wa": "9779813013735"};</script>
+<script>var C={"lang": "en", "ev": [{"k": "r", "label": "Reception", "date": "2026-11-28", "bs": "Mangsir 12, 2083", "time": "5:00 PM onwards", "venue": "", "map": "https://www.google.com/maps/place/MFG6%2BV5X+Diyalo+Foodland+Kalikanagar,+Butwal,+Lumbini+Province+32907/@27.6771345,83.4606209,16z/data=!4m6!3m5!1s0x399687000e38b619:0xd6fbbf73869bbccb!8m2!3d27.6771345!4d83.4606209!16s%2Fg%2F11vqbf059t"}], "T": {"months": ["January", "February", "March", "April", "May", "June", "July", "August", "September", "October", "November", "December"], "wd": ["Sunday", "Monday", "Tuesday", "Wednesday", "Thursday", "Friday", "Saturday"], "units": ["Days", "Hours", "Mins", "Secs"], "viewloc": "View Location", "sending": "Opening WhatsApp…", "ok": "Thank you! Please tap Send in WhatsApp to finish.", "err": "Sorry, it could not be sent. Please try again or message us on WhatsApp.", "wamsg": "Hello Ujjwal & Blesy, this is {n}.", "need": "Please choose for each event.", "dear": "Dear", "yesw": "Yes", "now": "No", "gw": "Guests", "rsvpw": "RSVP", "sending2": "Sending…", "ok2": "Thank you! Your RSVP has been received.", "send2": "Send RSVP"}, "wa": "9779813013735"};</script>
 <script>
 (function(){
 var $=function(i){return document.getElementById(i)},T=C.T,NE=C.lang==='ne';
@@ -186,7 +186,7 @@ if(g){document.body.classList.add('named');$('tagn').textContent=g;$('dearn').te
 var CFGURL='https://raw.githubusercontent.com/uzalstha09/Wed/config/config.json',KEY={j:'wedding',r:'reception'};
 var BASE=JSON.parse(JSON.stringify(C.ev));
 function urlOv(){C.ev.forEach(function(e){var t=(q.get(e.k+'t')||'').trim().slice(0,40),v=(q.get(e.k+'v')||'').trim().slice(0,60),m=(q.get(e.k+'m')||'').trim();if(t)e.time=t;if(v)e.venue=v;if(/^https?:\/\//i.test(m)&&!/qLXXtzq6119MEdBVA|nJAhKrkYgUaogWYY9|Rose\+Party\+Palace|0x3996842b4da06a89/.test(m))e.map=m.slice(0,600)});}
-function applyCfg(cfg){C.ev=JSON.parse(JSON.stringify(BASE));if(cfg)C.ev.forEach(function(e){var c=cfg[KEY[e.k]];if(!c)return;var L=NE?'ne':'en';if(typeof c.map==='string'&&/^https?:\/\//i.test(c.map))e.map=c.map;if(typeof c['time_'+L]==='string')e.time=c['time_'+L];if(typeof c['venue_'+L]==='string')e.venue=c['venue_'+L]});urlOv()}
+var RS='';function applyCfg(cfg){C.ev=JSON.parse(JSON.stringify(BASE));if(cfg&&typeof cfg.rsvp_url==='string'&&/^https:\/\/script\.google(usercontent)?\.com\//.test(cfg.rsvp_url))RS=cfg.rsvp_url;if(cfg)C.ev.forEach(function(e){var c=cfg[KEY[e.k]];if(!c)return;var L=NE?'ne':'en';if(typeof c.map==='string'&&/^https?:\/\//i.test(c.map))e.map=c.map;if(typeof c['time_'+L]==='string')e.time=c['time_'+L];if(typeof c['venue_'+L]==='string')e.venue=c['venue_'+L]});urlOv()}
 function D(e){return new Date(e.date+'T00:00:00')}
 function fd(d){return dv(d.getDate())+' '+T.months[d.getMonth()]+' '+dv(d.getFullYear())}
 function render(){
@@ -195,8 +195,8 @@ $('evs').innerHTML=C.ev.map(function(e,i){var d=D(e),tv=[e.time,e.venue].filter(
 $('locs').innerHTML=C.ev.map(function(e,i){var d=D(e);return '<div class="lc rv" style="--d:'+(.3+i*.2)+'s"><div class="cap">'+esc(e.label)+'</div>'+(e.venue?'<div class="vn">'+esc(e.venue)+'</div>':'')+'<div class="dt">'+T.wd[d.getDay()]+', '+fd(d)+(e.time?' · '+esc(e.time):'')+'</div>'+(e.map?'<a class="btn" href="'+esc(cm(e.map))+'" rel="noopener"><svg width="12" height="15" viewBox="0 0 12 15" fill="none" stroke="currentColor" stroke-width="1.2"><path d="M6 14s5-4.6 5-8.2A5 5 0 0 0 1 5.8C1 9.4 6 14 6 14z"/><circle cx="6" cy="6" r="1.8"/></svg>'+esc(T.viewloc)+'</a>':'')+'</div>'}).join('');
 }
 applyCfg(null);render();
-try{var cc=localStorage.getItem('wcfg');if(cc){applyCfg(JSON.parse(cc));render()}}catch(e){}
-try{fetch(CFGURL+'?t='+Math.floor(Date.now()/60000),{cache:'no-store'}).then(function(r){return r.ok?r.json():null}).then(function(cfg){if(!cfg)return;try{localStorage.setItem('wcfg',JSON.stringify(cfg))}catch(e){}applyCfg(cfg);render();var s=document.querySelectorAll('.sec.in');}).catch(function(){})}catch(e){}
+try{var cc=localStorage.getItem('wcfg');if(cc){applyCfg(JSON.parse(cc));render();if(RS){var sb0=document.querySelector('#rf .send');if(sb0)sb0.textContent=T.send2}}}catch(e){}
+try{fetch(CFGURL+'?t='+Math.floor(Date.now()/60000),{cache:'no-store'}).then(function(r){return r.ok?r.json():null}).then(function(cfg){if(!cfg)return;try{localStorage.setItem('wcfg',JSON.stringify(cfg))}catch(e){}applyCfg(cfg);render();if(RS){var sb=document.querySelector('#rf .send');if(sb)sb.textContent=T.send2}}).catch(function(){})}catch(e){}
 var tgt=D(C.ev[0]);$('cdl').textContent=C.ev[0].label;$('cdt').textContent=T.wd[tgt.getDay()]+', '+fd(tgt);
 $('cd').innerHTML=T.units.map(function(u){return '<div><b>00</b><span>'+esc(u)+'</span></div>'}).join('');
 var cb=$('cd').querySelectorAll('b');
@@ -208,6 +208,9 @@ $('rf').addEventListener('submit',function(ev){ev.preventDefault();var f=this,b=
  for(var i=0;i<C.ev.length;i++){if(!f.querySelector('input[name="attend-'+C.ev[i].k+'"]:checked')){m.textContent=T.need;return}}
  var n=($('rn').value||'').trim();if(!n){$('rn').focus();return}
  var lines=[T.rsvpw+' — '+n];C.ev.forEach(function(e){var v=f.querySelector('input[name="attend-'+e.k+'"]:checked').value;lines.push(e.label+': '+(v==='yes'?T.yesw:T.now))});lines.push(T.gw+': '+dv($('rg').value));
+ if(RS){var body=new URLSearchParams();body.append('name',n);C.ev.forEach(function(e){body.append('attend-'+e.k,f.querySelector('input[name="attend-'+e.k+'"]:checked').value)});body.append('guests',$('rg').value);body.append('page',location.pathname);body.append('lang',C.lang);if(g)body.append('link-name',g);
+  b.disabled=true;var old=b.textContent;b.textContent=T.sending2;m.textContent='';
+  fetch(RS,{method:'POST',mode:'no-cors',headers:{'Content-Type':'application/x-www-form-urlencoded'},body:body.toString()}).then(function(){m.textContent=T.ok2;f.querySelectorAll('input,select,button').forEach(function(x){x.disabled=true});b.textContent='✓'}).catch(function(){m.textContent=T.err;b.disabled=false;b.textContent=old});return}
  m.textContent=T.ok;location.href='https://wa.me/'+C.wa+'?text='+encodeURIComponent(lines.join('\n'))});
 /* reveal */
 var secs=document.querySelectorAll('.sec');

diff --git a/wedding/index.html b/wedding/index.html
@@ -173,7 +173,7 @@ body.rd #mute.on{display:flex}
   </div>
  </section>
 </div>
-<script>var C={"lang": "en", "ev": [{"k": "j", "label": "Wedding", "date": "2026-11-25", "bs": "Mangsir 9, 2083", "time": "", "venue": "", "map": "https://maps.app.goo.gl/B4FtiDtbxvyte3Ln6"}], "T": {"months": ["January", "February", "March", "April", "May", "June", "July", "August", "September", "October", "November", "December"], "wd": ["Sunday", "Monday", "Tuesday", "Wednesday", "Thursday", "Friday", "Saturday"], "units": ["Days", "Hours", "Mins", "Secs"], "viewloc": "View Location", "sending": "Opening WhatsApp…", "ok": "Thank you! Please tap Send in WhatsApp to finish.", "err": "Sorry, it could not be sent. Please try again or message us on WhatsApp.", "wamsg": "Hello Ujjwal & Blesy, this is {n}.", "need": "Please choose for each event.", "dear": "Dear", "yesw": "Yes", "now": "No", "gw": "Guests", "rsvpw": "RSVP"}, "wa": "9779813013735"};</script>
+<script>var C={"lang": "en", "ev": [{"k": "j", "label": "Wedding", "date": "2026-11-25", "bs": "Mangsir 9, 2083", "time": "", "venue": "", "map": "https://maps.app.goo.gl/B4FtiDtbxvyte3Ln6"}], "T": {"months": ["January", "February", "March", "April", "May", "June", "July", "August", "September", "October", "November", "December"], "wd": ["Sunday", "Monday", "Tuesday", "Wednesday", "Thursday", "Friday", "Saturday"], "units": ["Days", "Hours", "Mins", "Secs"], "viewloc": "View Location", "sending": "Opening WhatsApp…", "ok": "Thank you! Please tap Send in WhatsApp to finish.", "err": "Sorry, it could not be sent. Please try again or message us on WhatsApp.", "wamsg": "Hello Ujjwal & Blesy, this is {n}.", "need": "Please choose for each event.", "dear": "Dear", "yesw": "Yes", "now": "No", "gw": "Guests", "rsvpw": "RSVP", "sending2": "Sending…", "ok2": "Thank you! Your RSVP has been received.", "send2": "Send RSVP"}, "wa": "9779813013735"};</script>
 <script>
 (function(){
 var $=function(i){return document.getElementById(i)},T=C.T,NE=C.lang==='ne';
@@ -186,7 +186,7 @@ if(g){document.body.classList.add('named');$('tagn').textContent=g;$('dearn').te
 var CFGURL='https://raw.githubusercontent.com/uzalstha09/Wed/config/config.json',KEY={j:'wedding',r:'reception'};
 var BASE=JSON.parse(JSON.stringify(C.ev));
 function urlOv(){C.ev.forEach(function(e){var t=(q.get(e.k+'t')||'').trim().slice(0,40),v=(q.get(e.k+'v')||'').trim().slice(0,60),m=(q.get(e.k+'m')||'').trim();if(t)e.time=t;if(v)e.venue=v;if(/^https?:\/\//i.test(m)&&!/qLXXtzq6119MEdBVA|nJAhKrkYgUaogWYY9|Rose\+Party\+Palace|0x3996842b4da06a89/.test(m))e.map=m.slice(0,600)});}
-function applyCfg(cfg){C.ev=JSON.parse(JSON.stringify(BASE));if(cfg)C.ev.forEach(function(e){var c=cfg[KEY[e.k]];if(!c)return;var L=NE?'ne':'en';if(typeof c.map==='string'&&/^https?:\/\//i.test(c.map))e.map=c.map;if(typeof c['time_'+L]==='string')e.time=c['time_'+L];if(typeof c['venue_'+L]==='string')e.venue=c['venue_'+L]});urlOv()}
+var RS='';function applyCfg(cfg){C.ev=JSON.parse(JSON.stringify(BASE));if(cfg&&typeof cfg.rsvp_url==='string'&&/^https:\/\/script\.google(usercontent)?\.com\//.test(cfg.rsvp_url))RS=cfg.rsvp_url;if(cfg)C.ev.forEach(function(e){var c=cfg[KEY[e.k]];if(!c)return;var L=NE?'ne':'en';if(typeof c.map==='string'&&/^https?:\/\//i.test(c.map))e.map=c.map;if(typeof c['time_'+L]==='string')e.time=c['time_'+L];if(typeof c['venue_'+L]==='string')e.venue=c['venue_'+L]});urlOv()}
 function D(e){return new Date(e.date+'T00:00:00')}
 function fd(d){return dv(d.getDate())+' '+T.months[d.getMonth()]+' '+dv(d.getFullYear())}
 function render(){
@@ -195,8 +195,8 @@ $('evs').innerHTML=C.ev.map(function(e,i){var d=D(e),tv=[e.time,e.venue].filter(
 $('locs').innerHTML=C.ev.map(function(e,i){var d=D(e);return '<div class="lc rv" style="--d:'+(.3+i*.2)+'s"><div class="cap">'+esc(e.label)+'</div>'+(e.venue?'<div class="vn">'+esc(e.venue)+'</div>':'')+'<div class="dt">'+T.wd[d.getDay()]+', '+fd(d)+(e.time?' · '+esc(e.time):'')+'</div>'+(e.map?'<a class="btn" href="'+esc(cm(e.map))+'" rel="noopener"><svg width="12" height="15" viewBox="0 0 12 15" fill="none" stroke="currentColor" stroke-width="1.2"><path d="M6 14s5-4.6 5-8.2A5 5 0 0 0 1 5.8C1 9.4 6 14 6 14z"/><circle cx="6" cy="6" r="1.8"/></svg>'+esc(T.viewloc)+'</a>':'')+'</div>'}).join('');
 }
 applyCfg(null);render();
-try{var cc=localStorage.getItem('wcfg');if(cc){applyCfg(JSON.parse(cc));render()}}catch(e){}
-try{fetch(CFGURL+'?t='+Math.floor(Date.now()/60000),{cache:'no-store'}).then(function(r){return r.ok?r.json():null}).then(function(cfg){if(!cfg)return;try{localStorage.setItem('wcfg',JSON.stringify(cfg))}catch(e){}applyCfg(cfg);render();var s=document.querySelectorAll('.sec.in');}).catch(function(){})}catch(e){}
+try{var cc=localStorage.getItem('wcfg');if(cc){applyCfg(JSON.parse(cc));render();if(RS){var sb0=document.querySelector('#rf .send');if(sb0)sb0.textContent=T.send2}}}catch(e){}
+try{fetch(CFGURL+'?t='+Math.floor(Date.now()/60000),{cache:'no-store'}).then(function(r){return r.ok?r.json():null}).then(function(cfg){if(!cfg)return;try{localStorage.setItem('wcfg',JSON.stringify(cfg))}catch(e){}applyCfg(cfg);render();if(RS){var sb=document.querySelector('#rf .send');if(sb)sb.textContent=T.send2}}).catch(function(){})}catch(e){}
 var tgt=D(C.ev[0]);$('cdl').textContent=C.ev[0].label;$('cdt').textContent=T.wd[tgt.getDay()]+', '+fd(tgt);
 $('cd').innerHTML=T.units.map(function(u){return '<div><b>00</b><span>'+esc(u)+'</span></div>'}).join('');
 var cb=$('cd').querySelectorAll('b');
@@ -208,6 +208,9 @@ $('rf').addEventListener('submit',function(ev){ev.preventDefault();var f=this,b=
  for(var i=0;i<C.ev.length;i++){if(!f.querySelector('input[name="attend-'+C.ev[i].k+'"]:checked')){m.textContent=T.need;return}}
  var n=($('rn').value||'').trim();if(!n){$('rn').focus();return}
  var lines=[T.rsvpw+' — '+n];C.ev.forEach(function(e){var v=f.querySelector('input[name="attend-'+e.k+'"]:checked').value;lines.push(e.label+': '+(v==='yes'?T.yesw:T.now))});lines.push(T.gw+': '+dv($('rg').value));
+ if(RS){var body=new URLSearchParams();body.append('name',n);C.ev.forEach(function(e){body.append('attend-'+e.k,f.querySelector('input[name="attend-'+e.k+'"]:checked').value)});body.append('guests',$('rg').value);body.append('page',location.pathname);body.append('lang',C.lang);if(g)body.append('link-name',g);
+  b.disabled=true;var old=b.textContent;b.textContent=T.sending2;m.textContent='';
+  fetch(RS,{method:'POST',mode:'no-cors',headers:{'Content-Type':'application/x-www-form-urlencoded'},body:body.toString()}).then(function(){m.textContent=T.ok2;f.querySelectorAll('input,select,button').forEach(function(x){x.disabled=true});b.textContent='✓'}).catch(function(){m.textContent=T.err;b.disabled=false;b.textContent=old});return}
  m.textContent=T.ok;location.href='https://wa.me/'+C.wa+'?text='+encodeURIComponent(lines.join('\n'))});
 /* reveal */
 var secs=document.querySelectorAll('.sec');
